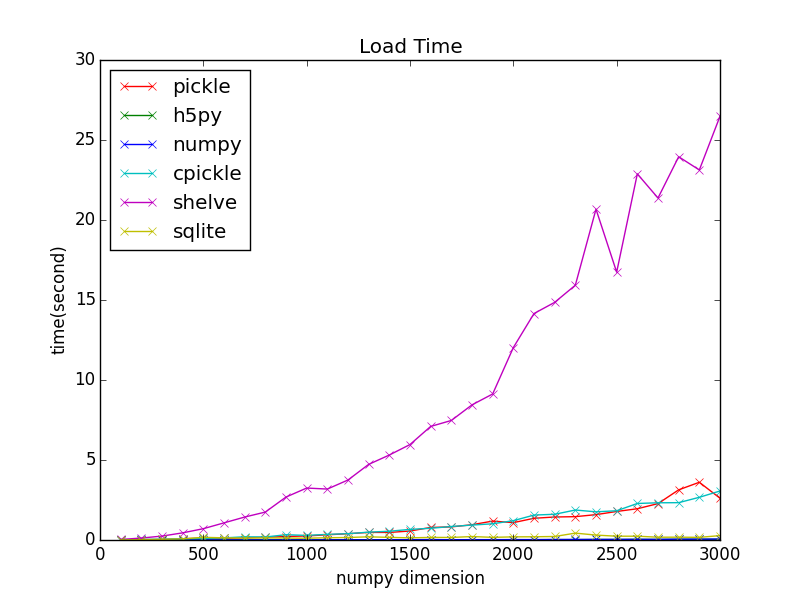
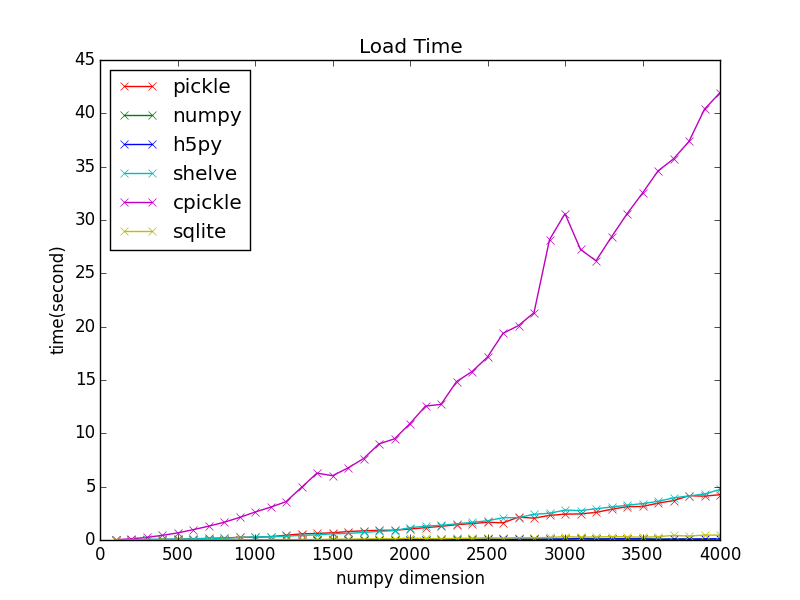
changed mat size to 4000

diff --git a/save_speed_test.py b/save_speed_test.py
@@ -4,6 +4,7 @@ import cPickle as c_pickle
 import h5py
 import shelve
 import sqlite3
+import pandas
 
 import os
 import time
@@ -12,56 +13,56 @@ import matplotlib.pyplot as plt
 
 import numpy as np
 
-def save_by_pickle(data, dim):
-    f = open("save/pickle/pickle" + str(dim) + ".pkl", 'wb')
+def save_by_pickle(data, mat_size):
+    f = open("save/pickle/pickle" + str(mat_size) + ".pkl", 'wb')
     pickle.dump(data, f)
     f.close()
 
-def load_by_pickle(dim):
-    f = open("save/pickle/pickle" + str(dim) + ".pkl", 'rb')
+def load_by_pickle(mat_size):
+    f = open("save/pickle/pickle" + str(mat_size) + ".pkl", 'rb')
     data = pickle.load(f)
     f.close()
     return data
 
-def save_by_cpickle(data, dim):
-    f = open("save/cpickle/cpickle" + str(dim) + ".pkl", 'wb')
+def save_by_cpickle(data, mat_size):
+    f = open("save/cpickle/cpickle" + str(mat_size) + ".pkl", 'wb')
     c_pickle.dump(data, f)
     f.close()
 
-def load_by_cpickle(dim):
-    f = open("save/cpickle/cpickle" + str(dim) + ".pkl", 'rb')
+def load_by_cpickle(mat_size):
+    f = open("save/cpickle/cpickle" + str(mat_size) + ".pkl", 'rb')
     data = c_pickle.load(f)
     f.close()
     return data
 
 
-def save_by_npy(data, dim):
-    np.save("save/numpy/numpy" + str(dim) + ".npy", data)
+def save_by_npy(data, mat_size):
+    np.save("save/numpy/numpy" + str(mat_size) + ".npy", data)
 
-def load_by_npy(dim):
-    data = np.load("save/numpy/numpy" + str(dim) + ".npy")
+def load_by_npy(mat_size):
+    data = np.load("save/numpy/numpy" + str(mat_size) + ".npy")
     return data
 
-def save_by_hdf5(data, dim):
-    f = h5py.File("save/h5py/h5py" + str(dim) + ".h5",'w')
+def save_by_hdf5(data, mat_size):
+    f = h5py.File("save/h5py/h5py" + str(mat_size) + ".h5",'w')
     f.create_dataset("data",data=data)
     f.flush()
     f.close()
 
-def load_by_hdf5(dim):
-    f = h5py.File("save/h5py/h5py" + str(dim) + ".h5", "r")
+def load_by_hdf5(mat_size):
+    f = h5py.File("save/h5py/h5py" + str(mat_size) + ".h5", "r")
     data = f["data"].value
     f.flush()
     f.close()
     return data
 
-def save_by_shelve(data, dim):
-    f = shelve.open("save/shelve/shelve" + str(dim))
+def save_by_shelve(data, mat_size):
+    f = shelve.open("save/shelve/shelve" + str(mat_size))
     f["data"] = data
     f.close()
 
-def load_by_shelve(dim):
-    f = shelve.open("save/shelve/shelve" + str(dim))
+def load_by_shelve(mat_size):
+    f = shelve.open("save/shelve/shelve" + str(mat_size))
     data = f["data"]
     f.close()
     return data
@@ -73,43 +74,43 @@ def prepare_sqlite():
         con.execute(sql)
     except:
         pass
-    sql = "CREATE TABLE data_tb (dim INT PRIMARY KEY, data BLOB);"
+    sql = "CREATE TABLE data_tb (mat_size INT PRIMARY KEY, data BLOB);"
     con.execute(sql)
     con.close()
 
 
-def save_by_sqlite(data, dim):
+def save_by_sqlite(data, mat_size):
     con = sqlite3.connect("save/sqlite/sqlite.db")
     sql = 'INSERT INTO data_tb VALUES(?, ?)'
     blob = buffer(data)
-    con.execute(sql, (dim, blob))
+    con.execute(sql, (mat_size, blob))
     con.commit()
     con.close()
 
-def load_by_sqlite(dim):
+def load_by_sqlite(mat_size):
     con = sqlite3.connect("save/sqlite/sqlite.db")
     cur = con.cursor()
-    sql = 'SELECT data FROM data_tb WHERE dim = ?'
-    cur.execute(sql, (dim,))
+    sql = 'SELECT data FROM data_tb WHERE mat_size = ?'
+    cur.execute(sql, (mat_size,))
     data = cur.fetchone()[0]
-    return np.frombuffer(data).reshape(dim, dim)
+    return np.frombuffer(data).reshape(mat_size, mat_size)
 
-def save_speed_test(my_func, dim):
+def save_speed_test(my_func, mat_size):
     print str(my_func)
-    print dim
-    data = np.random.rand(dim, dim)
+    print mat_size
+    data = np.random.rand(mat_size, mat_size)
     start = time.time()
-    my_func(data, dim)
+    my_func(data, mat_size)
     end = time.time()
     interval = end - start
     print "finished in %.5f sec" % interval
     return interval
 
-def load_speed_test(my_func, dim):
+def load_speed_test(my_func, mat_size):
     print str(my_func)
-    print dim
+    print mat_size
     start = time.time()
-    data = my_func(dim)
+    data = my_func(mat_size)
     end = time.time()
     interval = end - start
     print data.shape
@@ -117,9 +118,9 @@ def load_speed_test(my_func, dim):
     return interval
 
 
-min_dim = 100
-max_dim = 3000
-step_dim = 100
+min_mat_size = 100
+max_mat_size = 4000
+step_mat_size = 100
 
 # create directories
 modules = ["pickle","h5py","numpy", "cpickle", "shelve", "sqlite"]
@@ -131,70 +132,70 @@ for dir_name in modules:
 prepare_sqlite()
 
 # save & load
-save_pickle_times = [save_speed_test(save_by_pickle, i) for i in xrange(min_dim, max_dim + 1, step_dim)]
-load_pickle_times = [load_speed_test(load_by_pickle, i) for i in xrange(min_dim, max_dim + 1, step_dim)]
-save_npy_times = [save_speed_test(save_by_npy, i) for i in xrange(min_dim, max_dim + 1, step_dim)]
-load_npy_times = [load_speed_test(load_by_npy, i) for i in xrange(min_dim, max_dim + 1, step_dim)]
-save_h5py_times = [save_speed_test(save_by_hdf5, i) for i in xrange(min_dim, max_dim + 1, step_dim)]
-load_h5py_times = [load_speed_test(load_by_hdf5, i) for i in xrange(min_dim, max_dim + 1, step_dim)]
-save_shelve_times = [save_speed_test(save_by_shelve, i) for i in xrange(min_dim, max_dim + 1, step_dim)]
-load_shelve_times = [load_speed_test(load_by_shelve, i) for i in xrange(min_dim, max_dim + 1, step_dim)]
-save_cpickle_times = [save_speed_test(save_by_cpickle, i) for i in xrange(min_dim, max_dim + 1, step_dim)]
-load_cpickle_times = [load_speed_test(load_by_cpickle, i) for i in xrange(min_dim, max_dim + 1, step_dim)]
-save_sqlite_times = [save_speed_test(save_by_sqlite, i) for i in xrange(min_dim, max_dim + 1, step_dim)]
-load_sqlite_times = [load_speed_test(load_by_sqlite, i) for i in xrange(min_dim, max_dim + 1, step_dim)]
+save_pickle_times = [save_speed_test(save_by_pickle, i) for i in xrange(min_mat_size, max_mat_size + 1, step_mat_size)]
+load_pickle_times = [load_speed_test(load_by_pickle, i) for i in xrange(min_mat_size, max_mat_size + 1, step_mat_size)]
+save_npy_times = [save_speed_test(save_by_npy, i) for i in xrange(min_mat_size, max_mat_size + 1, step_mat_size)]
+load_npy_times = [load_speed_test(load_by_npy, i) for i in xrange(min_mat_size, max_mat_size + 1, step_mat_size)]
+save_h5py_times = [save_speed_test(save_by_hdf5, i) for i in xrange(min_mat_size, max_mat_size + 1, step_mat_size)]
+load_h5py_times = [load_speed_test(load_by_hdf5, i) for i in xrange(min_mat_size, max_mat_size + 1, step_mat_size)]
+save_shelve_times = [save_speed_test(save_by_shelve, i) for i in xrange(min_mat_size, max_mat_size + 1, step_mat_size)]
+load_shelve_times = [load_speed_test(load_by_shelve, i) for i in xrange(min_mat_size, max_mat_size + 1, step_mat_size)]
+save_cpickle_times = [save_speed_test(save_by_cpickle, i) for i in xrange(min_mat_size, max_mat_size + 1, step_mat_size)]
+load_cpickle_times = [load_speed_test(load_by_cpickle, i) for i in xrange(min_mat_size, max_mat_size + 1, step_mat_size)]
+save_sqlite_times = [save_speed_test(save_by_sqlite, i) for i in xrange(min_mat_size, max_mat_size + 1, step_mat_size)]
+load_sqlite_times = [load_speed_test(load_by_sqlite, i) for i in xrange(min_mat_size, max_mat_size + 1, step_mat_size)]
 # plot save time
-plt.plot([i for i in xrange(min_dim, max_dim + 1, step_dim)], save_pickle_times, "xr-", label="pickle")
-plt.plot([i for i in xrange(min_dim, max_dim + 1, step_dim)], save_npy_times, "xg-", label="numpy")
-plt.plot([i for i in xrange(min_dim, max_dim + 1, step_dim)], save_h5py_times, "xb-", label="h5py")
-plt.plot([i for i in xrange(min_dim, max_dim + 1, step_dim)], save_shelve_times, "xc-", label="shelve")
-plt.plot([i for i in xrange(min_dim, max_dim + 1, step_dim)], save_cpickle_times, "xm-", label="cpickle")
-plt.plot([i for i in xrange(min_dim, max_dim + 1, step_dim)], save_sqlite_times, "xy-", label="sqlite")
+plt.plot([i for i in xrange(min_mat_size, max_mat_size + 1, step_mat_size)], save_pickle_times, "xr-", label="pickle")
+plt.plot([i for i in xrange(min_mat_size, max_mat_size + 1, step_mat_size)], save_npy_times, "xg-", label="numpy")
+plt.plot([i for i in xrange(min_mat_size, max_mat_size + 1, step_mat_size)], save_h5py_times, "xb-", label="h5py")
+plt.plot([i for i in xrange(min_mat_size, max_mat_size + 1, step_mat_size)], save_shelve_times, "xc-", label="shelve")
+plt.plot([i for i in xrange(min_mat_size, max_mat_size + 1, step_mat_size)], save_cpickle_times, "xm-", label="cpickle")
+plt.plot([i for i in xrange(min_mat_size, max_mat_size + 1, step_mat_size)], save_sqlite_times, "xy-", label="sqlite")
 plt.legend(loc='upper left')
 plt.title("Save Time")
 plt.xlabel("numpy dimension")
 plt.ylabel("time(second)")
-plt.savefig("save_time.png")
+plt.savefig("graph/save_time.png")
 plt.show()
 
 # plot load time
-plt.plot([i for i in xrange(min_dim, max_dim + 1, step_dim)], load_pickle_times, "xr-", label="pickle")
-plt.plot([i for i in xrange(min_dim, max_dim + 1, step_dim)], load_npy_times, "xg-", label="numpy")
-plt.plot([i for i in xrange(min_dim, max_dim + 1, step_dim)], load_h5py_times, "xb-", label="h5py")
-plt.plot([i for i in xrange(min_dim, max_dim + 1, step_dim)], load_shelve_times, "xc-", label="shelve")
-plt.plot([i for i in xrange(min_dim, max_dim + 1, step_dim)], load_cpickle_times, "xm-", label="cpickle")
-plt.plot([i for i in xrange(min_dim, max_dim + 1, step_dim)], load_sqlite_times, "xy-", label="sqlite")
+plt.plot([i for i in xrange(min_mat_size, max_mat_size + 1, step_mat_size)], load_pickle_times, "xr-", label="pickle")
+plt.plot([i for i in xrange(min_mat_size, max_mat_size + 1, step_mat_size)], load_npy_times, "xg-", label="numpy")
+plt.plot([i for i in xrange(min_mat_size, max_mat_size + 1, step_mat_size)], load_h5py_times, "xb-", label="h5py")
+plt.plot([i for i in xrange(min_mat_size, max_mat_size + 1, step_mat_size)], load_shelve_times, "xc-", label="shelve")
+plt.plot([i for i in xrange(min_mat_size, max_mat_size + 1, step_mat_size)], load_cpickle_times, "xm-", label="cpickle")
+plt.plot([i for i in xrange(min_mat_size, max_mat_size + 1, step_mat_size)], load_sqlite_times, "xy-", label="sqlite")
 plt.legend(loc='upper left')
 plt.title("Load Time")
 plt.xlabel("numpy dimension")
 plt.ylabel("time(second)")
-plt.savefig("load_time.png")
+plt.savefig("graph/load_time.png")
 plt.show()
 
 # plot save time
-# plt.plot([i for i in xrange(min_dim, max_dim + 1, step_dim)], save_pickle_times, "xr-", label="pickle")
-plt.plot([i for i in xrange(min_dim, max_dim + 1, step_dim)], save_npy_times, "xg-", label="numpy")
-plt.plot([i for i in xrange(min_dim, max_dim + 1, step_dim)], save_h5py_times, "xb-", label="h5py")
-# plt.plot([i for i in xrange(min_dim, max_dim + 1, step_dim)], save_shelve_times, "xc-", label="shelve")
-# plt.plot([i for i in xrange(min_dim, max_dim + 1, step_dim)], save_cpickle_times, "xm-", label="cpickle")
-plt.plot([i for i in xrange(min_dim, max_dim + 1, step_dim)], save_sqlite_times, "xy-", label="sqlite")
+# plt.plot([i for i in xrange(min_mat_size, max_mat_size + 1, step_mat_size)], save_pickle_times, "xr-", label="pickle")
+plt.plot([i for i in xrange(min_mat_size, max_mat_size + 1, step_mat_size)], save_npy_times, "xg-", label="numpy")
+plt.plot([i for i in xrange(min_mat_size, max_mat_size + 1, step_mat_size)], save_h5py_times, "xb-", label="h5py")
+# plt.plot([i for i in xrange(min_mat_size, max_mat_size + 1, step_mat_size)], save_shelve_times, "xc-", label="shelve")
+# plt.plot([i for i in xrange(min_mat_size, max_mat_size + 1, step_mat_size)], save_cpickle_times, "xm-", label="cpickle")
+plt.plot([i for i in xrange(min_mat_size, max_mat_size + 1, step_mat_size)], save_sqlite_times, "xy-", label="sqlite")
 plt.legend(loc='upper left')
 plt.title("Save Time")
 plt.xlabel("numpy dimension")
 plt.ylabel("time(second)")
-plt.savefig("save_time2.png")
+plt.savefig("graph/save_time2.png")
 plt.show()
 
 # plot load time
-# plt.plot([i for i in xrange(min_dim, max_dim + 1, step_dim)], load_pickle_times, "xr-", label="pickle")
-plt.plot([i for i in xrange(min_dim, max_dim + 1, step_dim)], load_npy_times, "xg-", label="numpy")
-plt.plot([i for i in xrange(min_dim, max_dim + 1, step_dim)], load_h5py_times, "xb-", label="h5py")
-# plt.plot([i for i in xrange(min_dim, max_dim + 1, step_dim)], load_shelve_times, "xc-", label="shelve")
-# plt.plot([i for i in xrange(min_dim, max_dim + 1, step_dim)], load_cpickle_times, "xm-", label="cpickle")
-plt.plot([i for i in xrange(min_dim, max_dim + 1, step_dim)], load_sqlite_times, "xy-", label="sqlite")
+# plt.plot([i for i in xrange(min_mat_size, max_mat_size + 1, step_mat_size)], load_pickle_times, "xr-", label="pickle")
+plt.plot([i for i in xrange(min_mat_size, max_mat_size + 1, step_mat_size)], load_npy_times, "xg-", label="numpy")
+plt.plot([i for i in xrange(min_mat_size, max_mat_size + 1, step_mat_size)], load_h5py_times, "xb-", label="h5py")
+# plt.plot([i for i in xrange(min_mat_size, max_mat_size + 1, step_mat_size)], load_shelve_times, "xc-", label="shelve")
+# plt.plot([i for i in xrange(min_mat_size, max_mat_size + 1, step_mat_size)], load_cpickle_times, "xm-", label="cpickle")
+plt.plot([i for i in xrange(min_mat_size, max_mat_size + 1, step_mat_size)], load_sqlite_times, "xy-", label="sqlite")
 plt.legend(loc='upper left')
 plt.title("Load Time")
 plt.xlabel("numpy dimension")
 plt.ylabel("time(second)")
-plt.savefig("load_time2.png")
+plt.savefig("graph/load_time2.png")
 plt.show()
